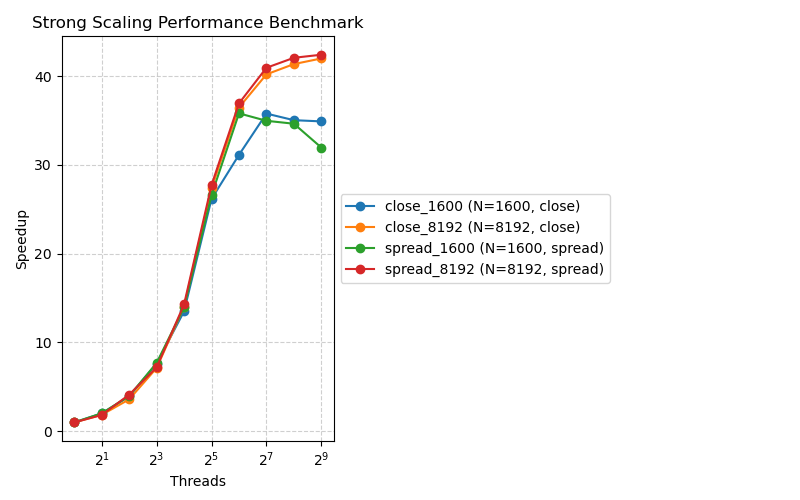
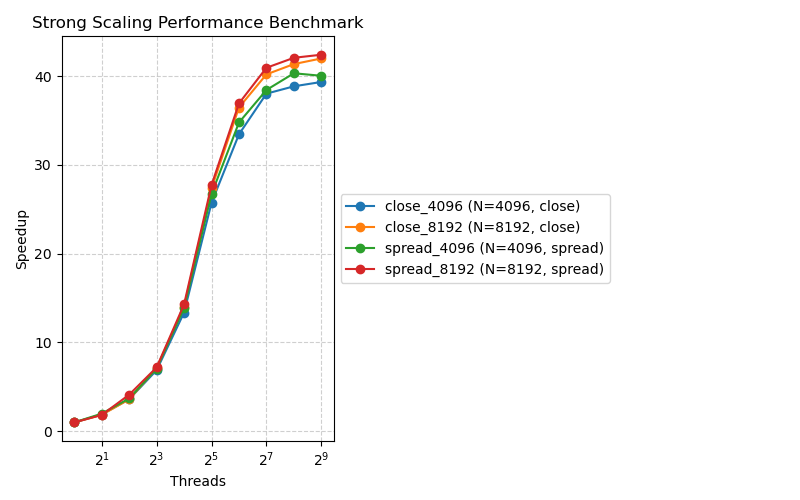
fisih

diff --git a/assignment02/report/assignment2.md b/assignment02/report/assignment2.md
@@ -161,8 +161,10 @@ When looking at our parallelized performance we consider a tile size of 52 as pr
 
 Because of time limitation we were unfortunate not able to perform further testing on other platforms, but it would be very interesting to see how the performance compares to other system architectures.
 
-# Acknowledgement
-In the implementation of the python script used to generate the plots generative AI like ChatGPT and Visual Studio Code Copilot were used to speed up the coding process.
+# Appendix
 
-# Disclaimer
-Due to our group size of only two members we decided to work on all tasks however not to dive in too deeply?
+## Disclaimer
+Given our smaller Group size we did not have the capacity to investigate every aspect of the assignment in depth. Therefore some explanations and analysis might be superficial and not cover all edge cases. We choose the most relevant parts to focus on and provide a concise report.
+
+## Deceleration of the use of generative AI
+Generative AI tools such as ChatGPT and GitHub Copilot were utilized during the implementation of the Python script used to generate the plots to accelerate the development process.
